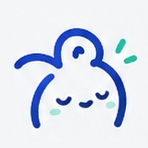
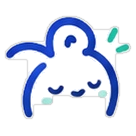
루미 배경 없애기: 회색 타일 제거, 시트 그림 그대로 투명 배경으로
- 캐릭터 시트에서 잘라낸 루미 그림의 바깥 회색 바탕만 투명하게 하고
  몸은 순백으로 (테두리 틈을 막고 바깥만 지우는 방식)
- 루미를 감싸던 둥근 회색 타일 제거, 앱 아이콘(파란 바탕)은 그대로
- 홈 말풍선 카드를 순백으로

Changed region(s): [[0.0294, 0.1176, 0.8824, 0.8824], [0.7647, 0.1765, 0.9706, 0.4412], [0.1765, 0.5, 0.2059, 0.5294]]

diff --git a/index.html b/index.html
@@ -648,7 +648,7 @@
   .ox button.right, .ox.light button.right { background: var(--green) !important; }
   .quiz .ex b, .c-quiz .ex b, .c-body .me b, .bp .me b, .brief-line b, .streak-card b, .mini-card b { color: #059669 !important; }
   .searchbox:focus-within { border-color: var(--blue) !important; box-shadow: 0 0 0 3px rgba(30, 64, 175, 0.12) !important; }
-  .hero { background: linear-gradient(135deg, #FFFFFF 55%, #ECFDF5) !important; }
+  .hero { background: #FFFFFF !important; }
   .bubble, .home .bubble { background: #F1F5FB !important; }
   #splash b { color: var(--blue); }
   .ex-row { display: flex; gap: 10px; align-items: flex-start; }
@@ -678,19 +678,15 @@
   @media (prefers-reduced-motion: reduce) { .lumi .lumi-body, .lumi .lumi-arm, .lumi .lumi-spark { animation: none !important; } }
 
   /* ═════ 루미 (시트 그림) ═════ */
-  .lumi { display: inline-flex; flex-shrink: 0; border-radius: 28%; background: #F4F5F7; overflow: hidden; }
+  .lumi { display: inline-flex; flex-shrink: 0; background: transparent; }
   .lumi img { width: 100%; height: 100%; object-fit: contain; display: block; transform-origin: 50% 85%; user-select: none; }
-  .lumi.is-main { background: #FAFAFA; }
-  .lumi.is-icon { border-radius: 24%; }
-  .lumi.is-wave { background: #F5F6F8; }
+  .lumi.is-icon { border-radius: 24%; overflow: hidden; }
   .lumi-up img { animation: lumi-hop 1.1s ease-in-out infinite; }
   .lumi-flat img { animation: lumi-peek 3s ease-in-out infinite; }
   .lumi-down img { animation: lumi-breathe 3.4s ease-in-out infinite; }
   @keyframes lumi-hop { 0%, 100% { transform: translateY(0) rotate(0); } 25% { transform: translateY(-7%) rotate(-6deg); } 50% { transform: translateY(0) rotate(0); } 75% { transform: translateY(-5%) rotate(6deg); } }
   @keyframes lumi-peek { 0%, 100% { transform: rotate(0) translateX(0); } 30% { transform: rotate(-8deg) translateX(-3%); } 70% { transform: rotate(8deg) translateX(3%); } }
   @keyframes lumi-breathe { 0%, 100% { transform: scale(1) translateY(0); } 50% { transform: scale(1.06) translateY(-2%); } }
-  #splash .lumi { border-radius: 32px; }
-  .hero .lumi { border-radius: 22px; }
 </style>
 </head>
 <body>
